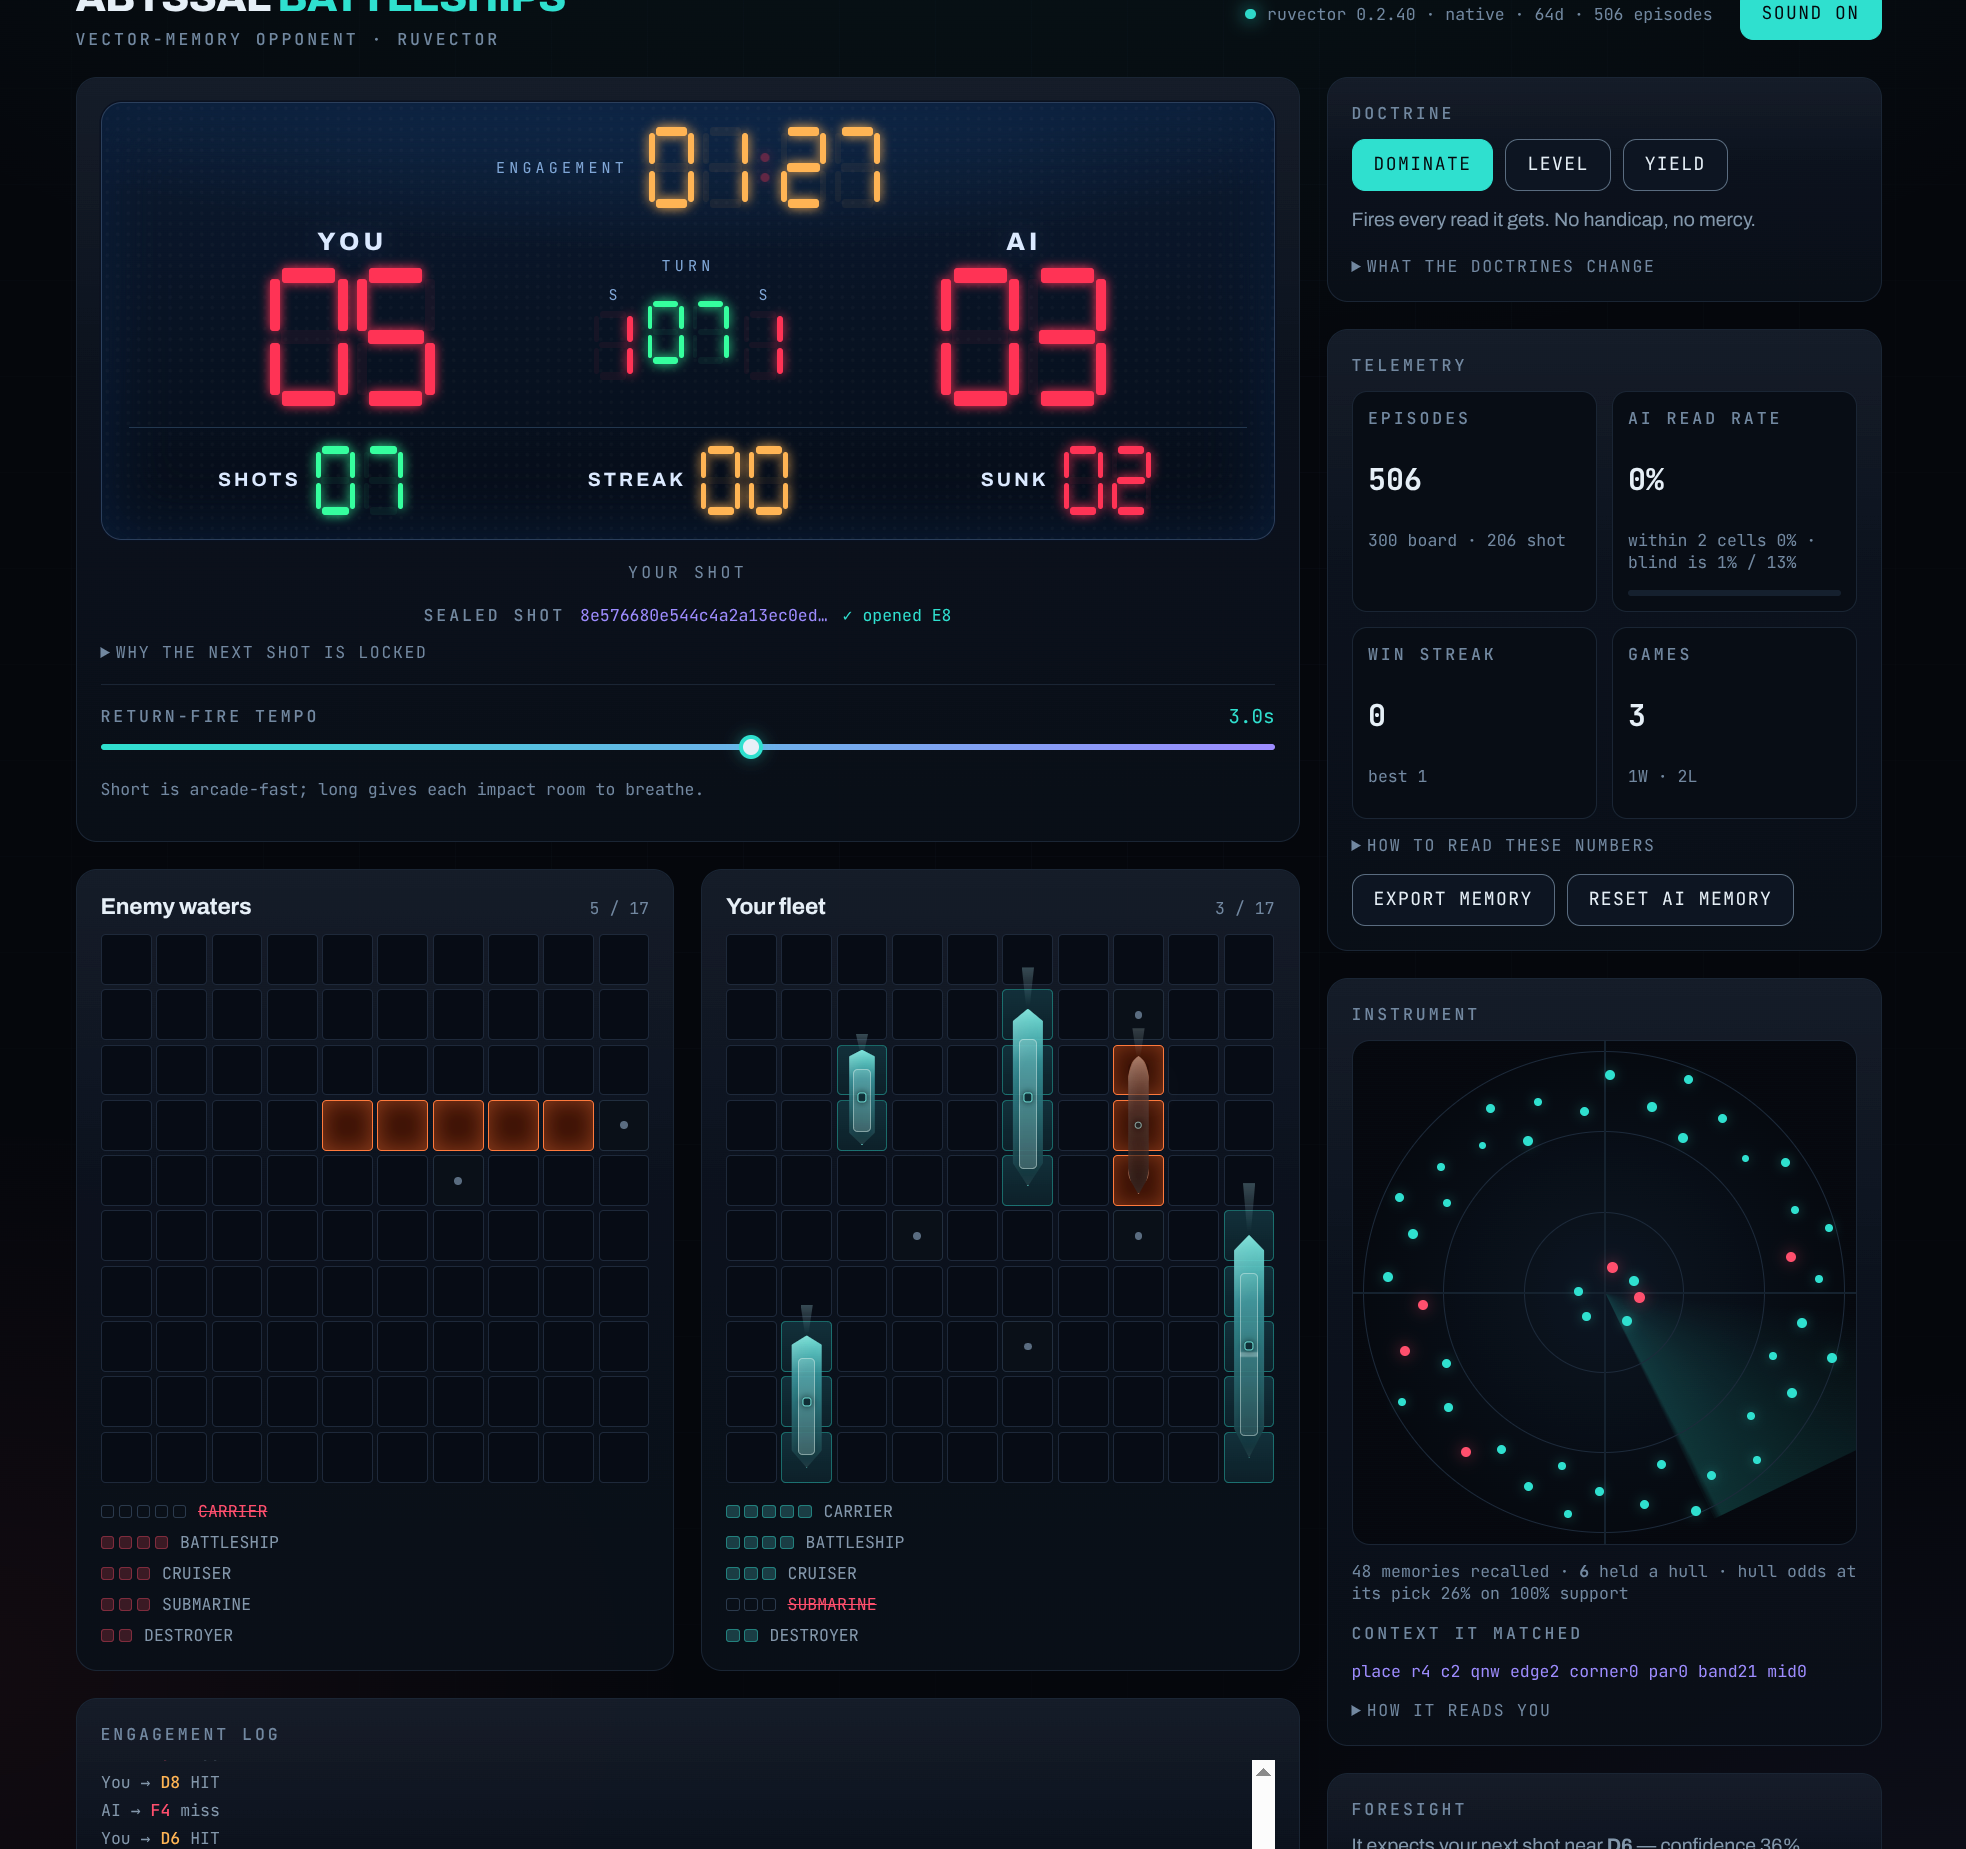
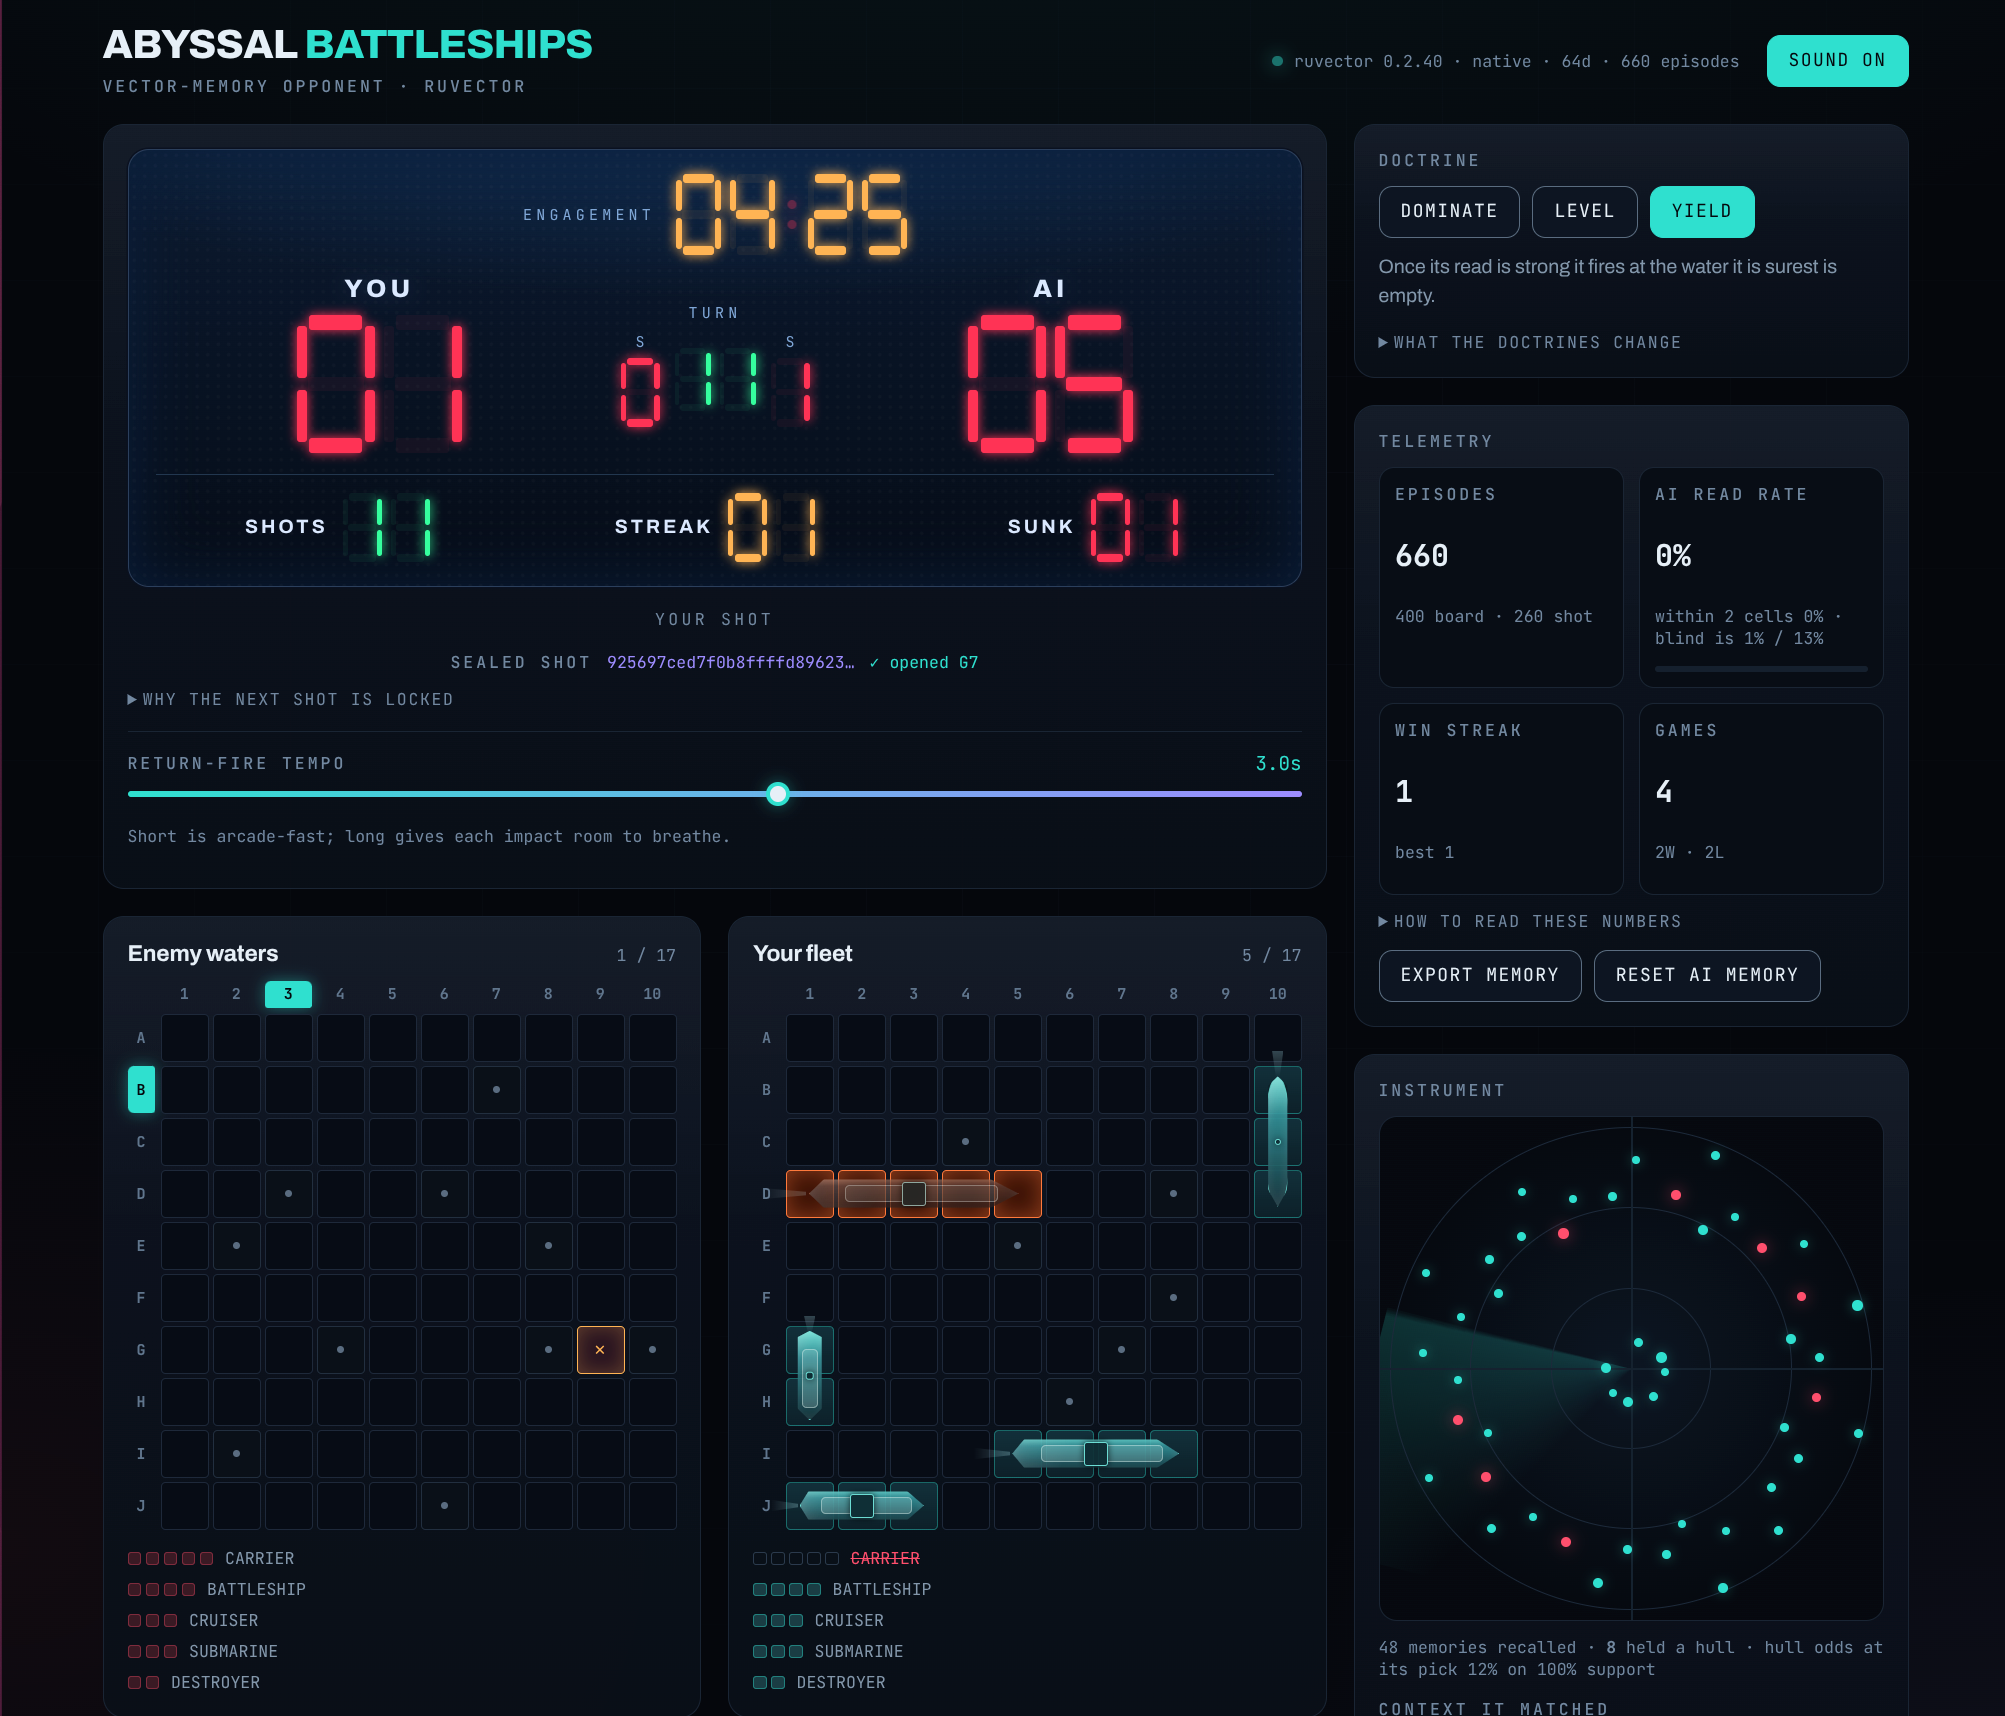
docs: add MIT license and project about details

diff --git a/README.md b/README.md
@@ -45,6 +45,8 @@ The more games you leave behind, the less its opening shots look like guesses.
 - [HTTP API](#http-api)
 - [Project layout](#project-layout)
 - [The AI's memory on disk](#the-ais-memory-on-disk)
+- [About](#about)
+- [License](#license)
 - [Troubleshooting](#troubleshooting)
 
 ---
@@ -378,6 +380,21 @@ as readable JSON.
 
 Deleting `data/` is always safe. The opponent simply goes back to playing
 blind.
+
+---
+
+## About
+
+Abyssal Battleships is a small, self-contained Battleships game built with a
+vanilla JavaScript front end and a Node.js server. Its opponent uses persistent
+vector memory to learn where you hide your fleet across games. The project is
+maintained by [dgdev25](https://github.com/dgdev25).
+
+## License
+
+This project is released under the [MIT License](LICENSE). The bundled audio
+assets have their own provenance and licensing notes in
+[`public/audio/README.md`](public/audio/README.md).
 
 ---
 
